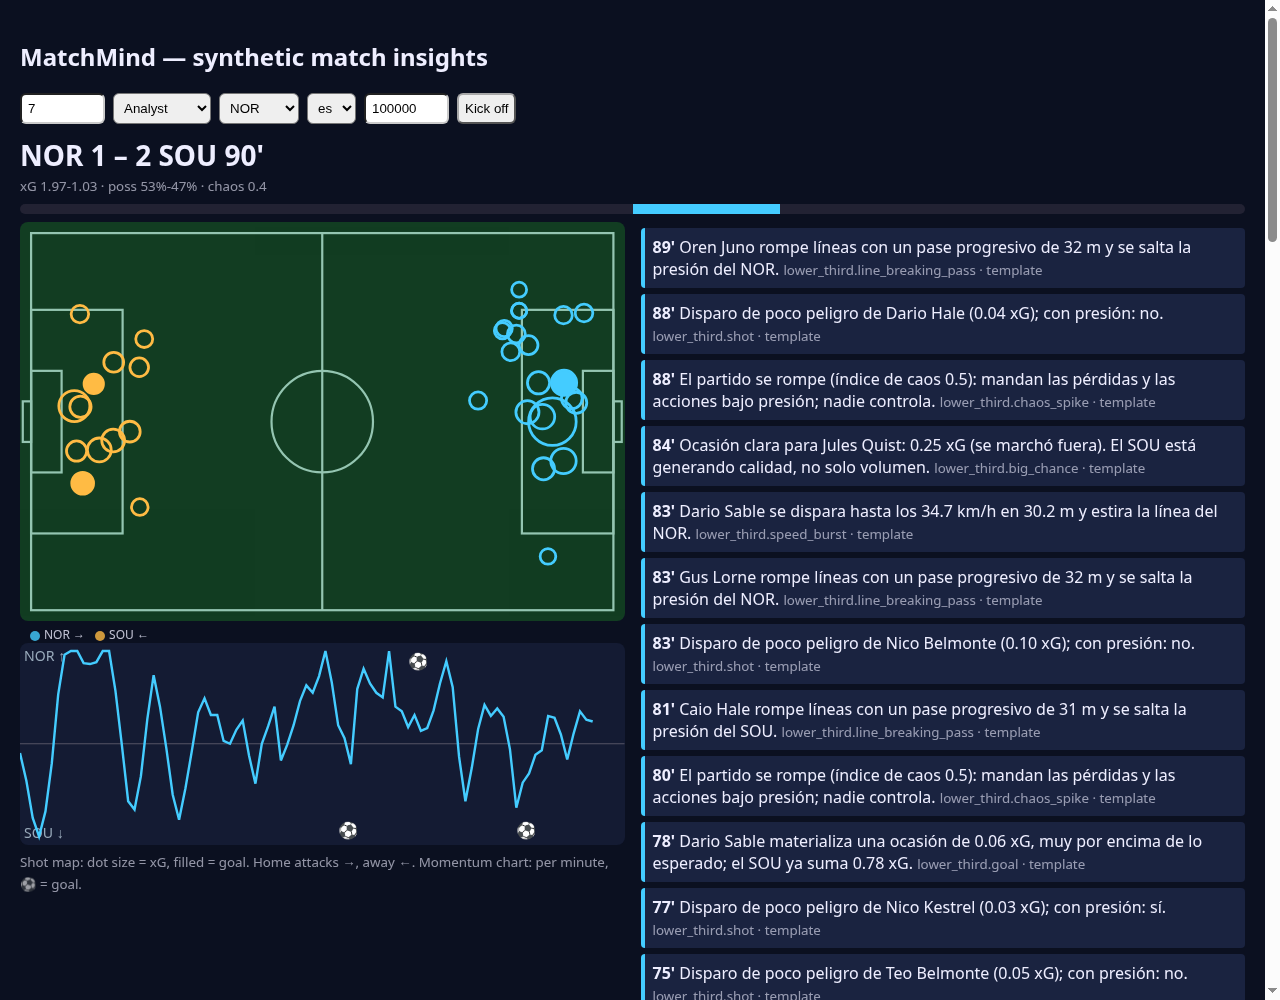
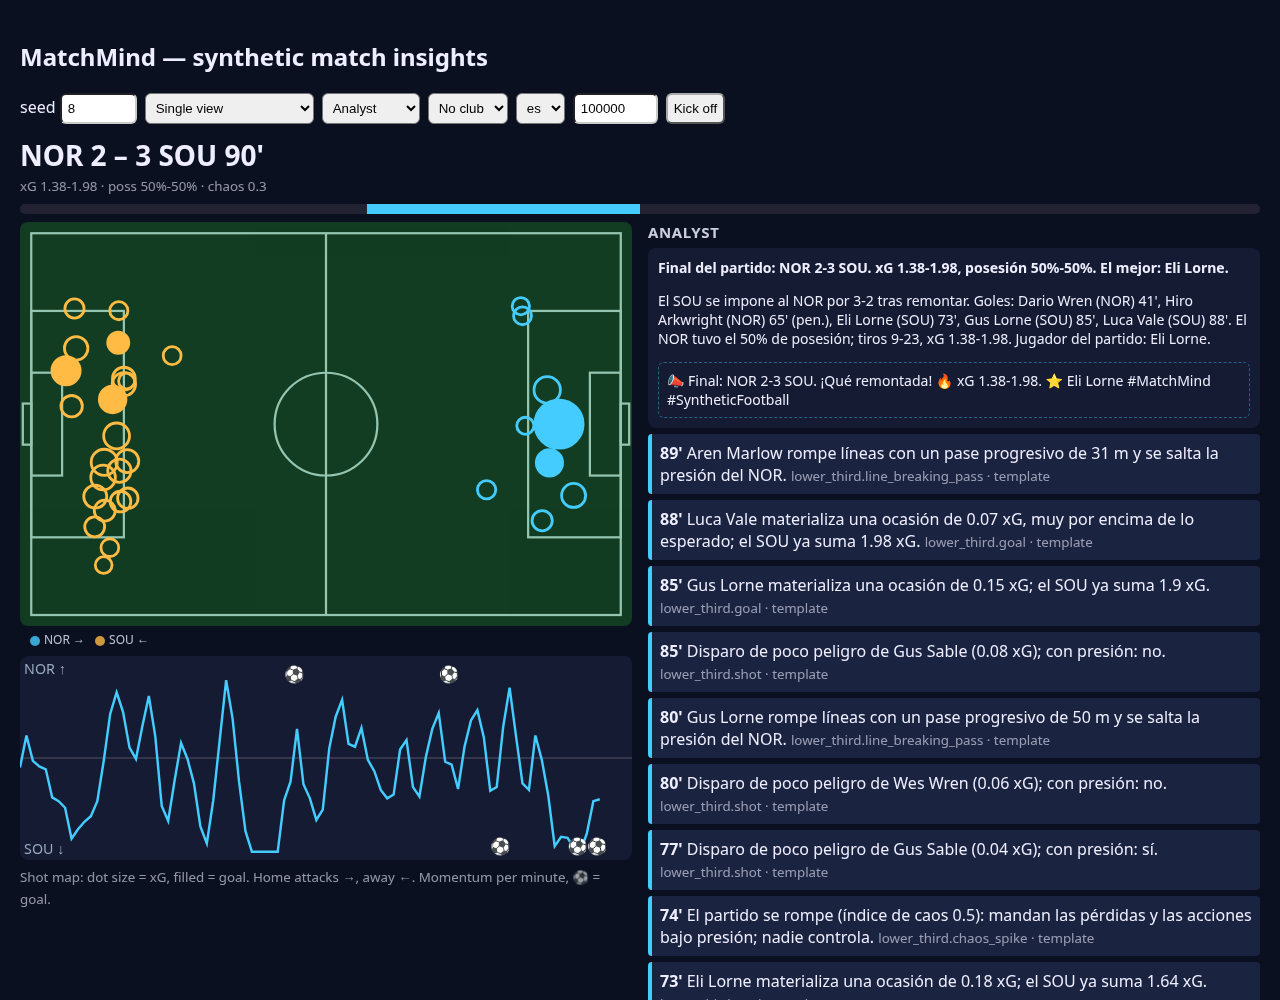
docs: ARCHITECTURE.md (mermaid + rendered PNG), screenshots (split, analyst-es, casual-it, cue JSON, CLI); README gallery + demo seed 8

diff --git a/docs/ARCHITECTURE.md b/docs/ARCHITECTURE.md
@@ -1,0 +1,52 @@
+# MatchMind architecture
+
+![architecture](architecture.png)
+
+```mermaid
+flowchart TB
+  subgraph GEN["Synthetic data engine (generator v4, seeded)"]
+    G["generate_match(seed, styles)<br/>passes · carries · duels · fouls<br/>corners · free kicks · penalties<br/>cards · subs · fatigue · home edge"]
+  end
+  subgraph PIPE["Orchestrator: 5-stage multi-agent pipeline"]
+    I["1 Ingest<br/>event stream"] --> S["2 Interpret<br/>MatchState: score, xG, possession,<br/>momentum, control-vs-chaos"]
+    S --> AN["Analyst agent<br/>key moments, thresholds, cooldowns"]
+    AN --> EX["3 Explain<br/>Explainer agent: WHY + evidence"]
+    EX --> PE["5 Personalize<br/>Personalizer: persona · club · player · lang"]
+    PE --> NA["Narrator agent<br/>Foundry model or EN/ES/IT templates"]
+    NA --> RE["4 Render<br/>Renderer: timed overlay cue JSON"]
+    NA -. "agent failure" .-> FB["Localised fallback"]
+    FB --> RE
+  end
+  G --> I
+  RE --> SSE["SSE /stream"] --> UI["Web UI<br/>split view · shot map · momentum chart"]
+  S --> RC["Recap + social post<br/>EN/ES/IT"] --> UI
+  subgraph SURF["Agent surfaces"]
+    T["tools.py<br/>get_score · get_momentum<br/>get_key_moments · explain_moment"]
+    T --> MCP["MCP server<br/>JSON-RPC over stdio"]
+    T --> AF["Microsoft Agent Framework adapter<br/>(optional)"]
+  end
+  G --> T
+  NA <-. "optional" .-> FD["Azure AI Foundry / Azure OpenAI"]
+  AF <-. "optional" .-> FD
+  G --> DS["Dataset export<br/>CSV · JSONL · DATA_CARD"]
+```
+Rendered with `npx @mermaid-js/mermaid-cli -i docs/architecture.mmd -o docs/architecture.png`.
+
+## Components
+| stage / part | module | role |
+|---|---|---|
+| Synthetic data | `matchmind/generator.py` | Seeded event stream. Team styles, formations, fatigue, set pieces, cards, subs, home advantage. See [DATA_CARD](../DATA_CARD.md). |
+| 1 Ingest | `pipeline.Orchestrator.step` | One event at a time, in match order. |
+| 2 Interpret | `matchmind/state.py` | Incremental MatchState: score, xG, possession, pass accuracy, progressive passes, momentum (−1..1), control-vs-chaos. |
+| Analyst agent | `agents.AnalystAgent` | Detects key moments (goal, big chance, penalty, red card, speed burst, line-breaking pass, momentum swing, chaos spike), with cooldowns so cues don't repeat too often. |
+| 3 Explain | `agents.ExplainerAgent` | Says *why* a moment matters and attaches auditable evidence. Keeps language-neutral params. |
+| 5 Personalize | `agents.PersonalizerAgent` | Re-ranks and filters moments per fan: persona, favourite club, focus player, language. |
+| Narrator agent | `agents.NarratorAgent` + `llm.py` | Writes the line with Azure AI Foundry when configured. Otherwise uses native EN/ES/IT templates (`i18n.py`). |
+| Recovery | `i18n.fallback` | If the Narrator fails, the line falls back to the localised template, then to a generic localised line. The match never stops. |
+| 4 Render | `agents.RendererAgent` | Timed overlay cue JSON (template, anchor, duration, data, evidence, source). |
+| Recap | `matchmind/recap.py` | Post-match article + social post (EN/ES/IT), built only from event facts. |
+| Delivery | `server.py`, `web/index.html` | SSE stream and a plain-JS UI: split view, shot map, momentum chart. |
+| Agent surfaces | `tools.py`, `mcp_server.py`, `agent_framework_adapter.py` | The same four match-state tools, served over MCP (stdio JSON-RPC) and as optional Microsoft Agent Framework function tools. |
+| Dataset | `matchmind/dataset.py` | CSV/JSONL/matches.json export for analysis or model work. |
+
+Design choices: everything runs offline on the standard library at $0. The model is an *enhancement*, never a dependency. Every number shown to a fan can be traced to events.

diff --git a/README.md b/README.md
@@ -19,19 +19,19 @@ Requires only **Python 3.9+**. There are no dependencies and no API keys, and ev
 ```bash
 git clone https://github.com/TheNeuralWars/matchmind && cd matchmind
 python -m unittest -v                                   # full suite, stdlib only
-python -m matchmind.cli --seed 7 --profile analyst      # narrated match in the terminal
+python -m matchmind.cli --profile analyst --lang es     # narrated demo match (seed 8) + recap + social post
 python -m matchmind.server                              # open http://localhost:8000 (pick persona / club / en·es·it)
-#   deep link: http://localhost:8000/?autostart=1&seed=12&persona=casual&club=NOR&lang=it&speed=600
+#   split screen: http://localhost:8000/?autostart=1&view=split&seed=8&lang=en&lang2=it&speed=600
 python -m matchmind.mcp_server                          # MCP server over stdio (see below)
 python -m matchmind.dataset --out data/ --seeds 0-199 --random-styles   # synthetic dataset (CSV + JSONL)
 ```
-Stream endpoint directly: `curl -N "localhost:8000/stream?seed=7&persona=casual&club=NOR&lang=es&speed=600"`
+Stream endpoint directly: `curl -N "localhost:8000/stream?seed=8&persona=casual&club=NOR&lang=es&speed=600"`
 (SSE events: `meta`, `state`, `shot`, `cue`, `recap`). The UI draws a live SVG shot map, sized by xG with goals filled, and a per-minute momentum chart. It is plain JS with no build step.
 
 ### Generator knobs
 ```python
 from matchmind.generator import generate_match
-meta, events = generate_match(seed=7,
+meta, events = generate_match(seed=8,
     home_style={"possession": 0.8, "pressing": 0.7, "directness": 0.3, "formation": "4-3-3"},
     away_style={"possession": 0.3, "directness": 0.9, "formation": "3-5-2"})
 ```
@@ -67,14 +67,13 @@ print(asyncio.run(agent.run("Seed 7: who was on top after the hour, and why? Ris
 You can also pass any Agent Framework chat client: `build_agent(chat_client=my_client)`. *Not yet tested live because it needs an Azure login.*
 
 ## Screenshots
-- [x] `docs/ui-analyst-es.png` — analyst, Spanish: shot map + momentum chart + cues
-- [x] `docs/ui-casual-it.png` — casual fan, Italian, with a red card and goals
-- [ ] `docs/ui-casual-en.png` — split-screen hook, analyst vs casual on the same match
-- [ ] `docs/cue-json.png` — raw overlay cue JSON next to the rendered lower-third
-- [ ] `docs/cli.png` — CLI narrated run + recap
-- [ ] `docs/architecture.png` — Ingest → Interpret → Explain → Render → Personalize (+ MCP / Agent Framework) diagram
+| | |
+|---|---|
+| ![split](docs/ui-split-en-it.png) **Split view**: same match, analyst (EN) vs casual fan (IT) | ![architecture](docs/architecture.png) **Architecture**: see [docs/ARCHITECTURE.md](docs/ARCHITECTURE.md) |
+| ![analyst-es](docs/ui-analyst-es.png) Analyst, Spanish: shot map, momentum, cues, recap | ![casual-it](docs/ui-casual-it.png) Casual fan, Italian: red card + goals |
+| ![cue](docs/cue-json.png) Overlay cue JSON → rendered lower-third | ![cli](docs/cli.png) CLI narrated run + post-match article |
 
-![analyst-es](docs/ui-analyst-es.png)
+Regenerate the UI screenshots with headless Chrome via the deep link, e.g. `/?autostart=1&view=split&seed=8&lang=en&lang2=it&speed=100000`.
 
 ## Azure
 - **Azure Container Apps** (scale-to-zero, Consumption free grant) — `infra/deploy-containerapp.sh`, `Dockerfile`
